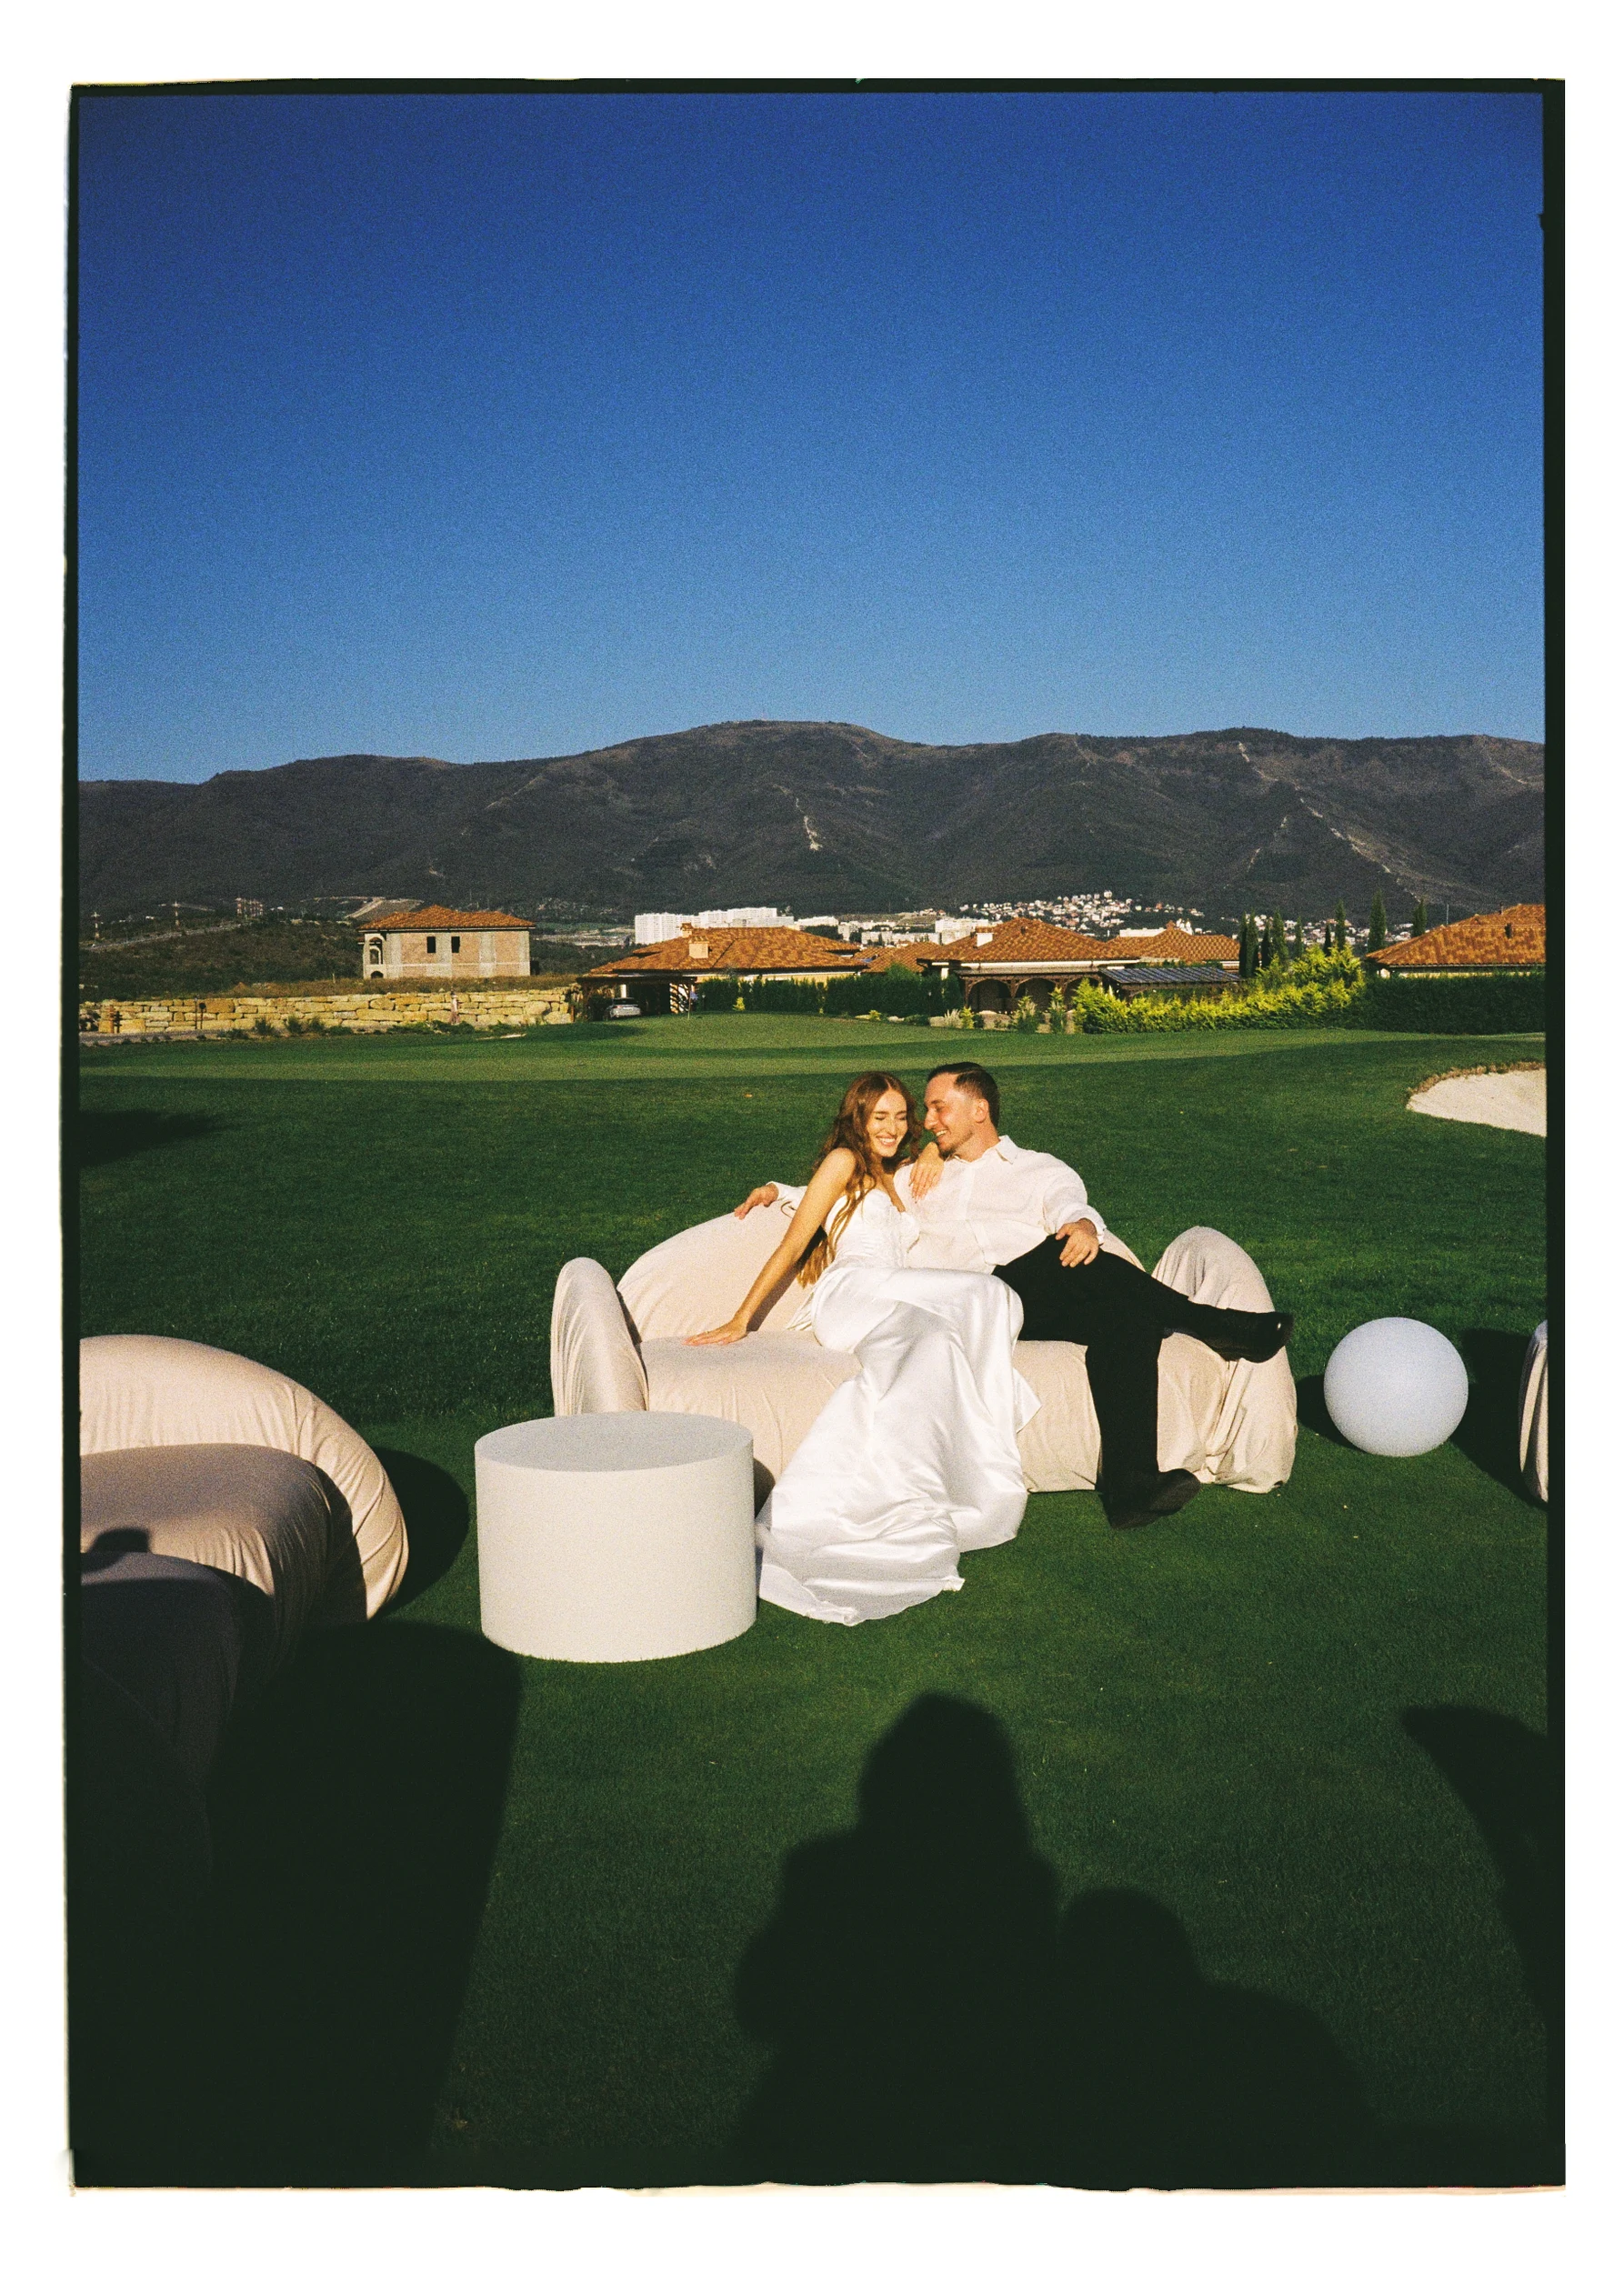
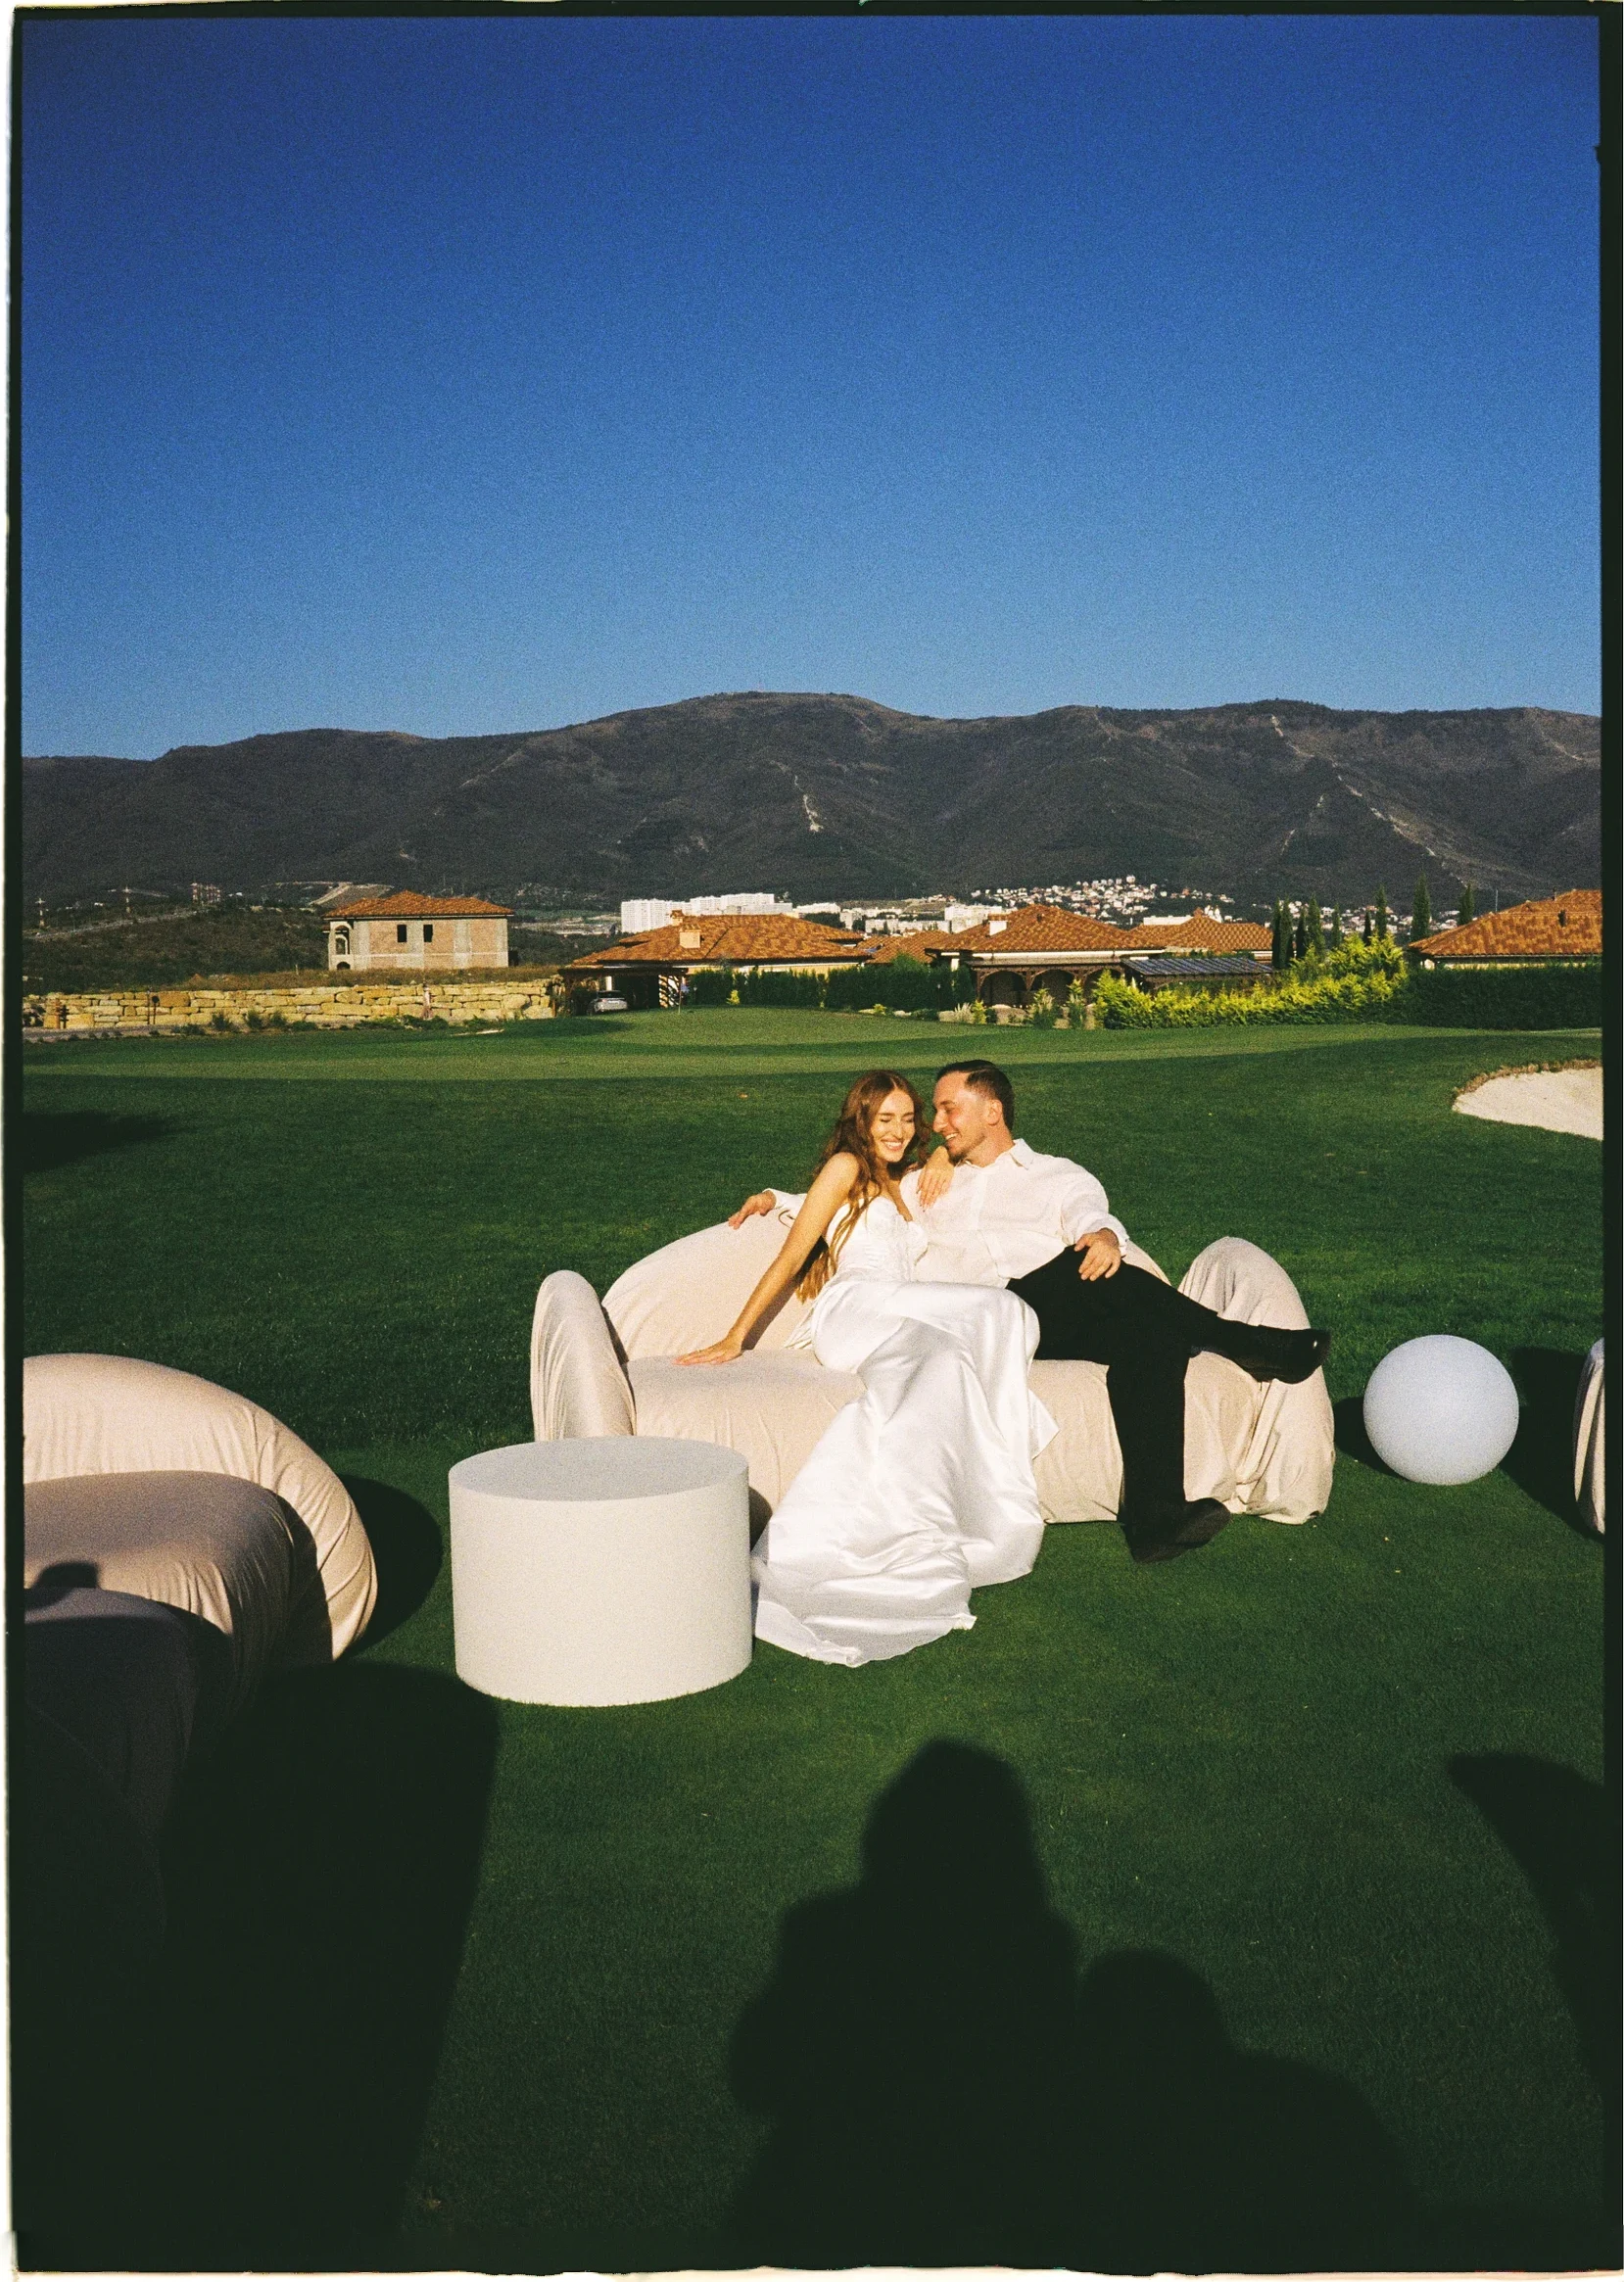
Оформление: обрезана вшитая белая плёночная рамка у фото «01 знакомство» (znakomstvo-2/3), теперь заполняют рамку без пустот; cache ?v=2

diff --git a/event-decoration.html b/event-decoration.html
@@ -384,8 +384,8 @@
           </div>
           <div class="ea-proc__panel ea-proc-step">
             <h3 class="ea-step__t ea-step__t--top"><span class="ea-step__n">01/</span> знакомство</h3>
-            <img class="ea-proc__ph ea-proc__ph--a" src="images/paloma/decor/znakomstvo-2.webp" alt="" loading="lazy">
-            <img class="ea-proc__ph ea-proc__ph--b" src="images/paloma/decor/znakomstvo-3.webp" alt="" loading="lazy">
+            <img class="ea-proc__ph ea-proc__ph--a" src="images/paloma/decor/znakomstvo-2.webp?v=2" alt="" loading="lazy">
+            <img class="ea-proc__ph ea-proc__ph--b" src="images/paloma/decor/znakomstvo-3.webp?v=2" alt="" loading="lazy">
             <div class="ea-step__body ea-step__body--lo">
               <p class="ea-step__d">Мы всегда начинаем со знакомства. Вы рассказываете о событии, площадке, дате и пожеланиях, а мы — о процессе работы и возможностях воплощения вашей <span class="ea-step__script">мечты</span></p>
             </div>